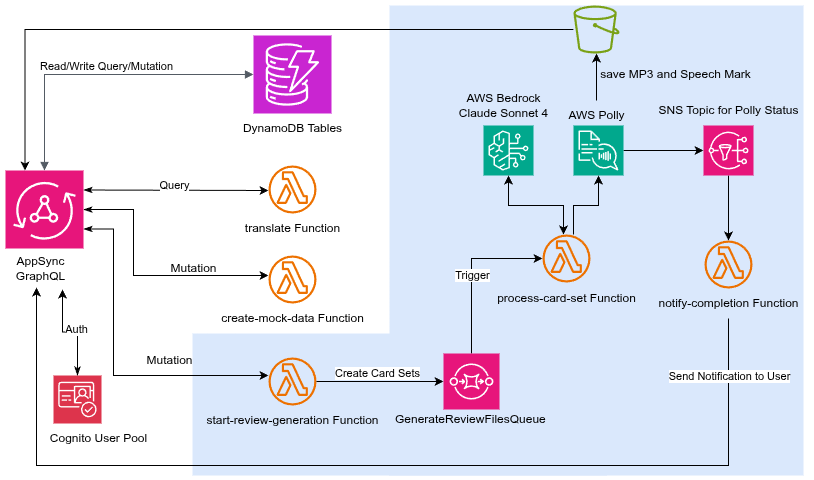
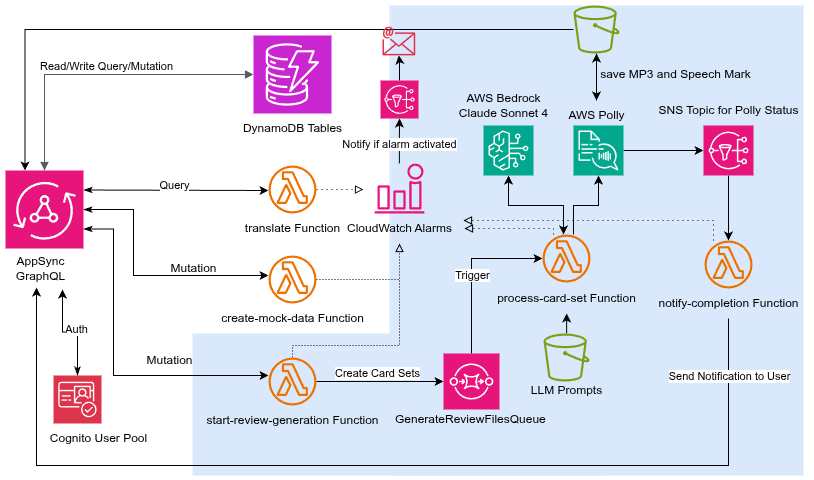
updated Readme.md

diff --git a/README.md b/README.md
@@ -6,7 +6,7 @@ This repository contains the full-stack source code for the MemorAI application,
 
 ### **Demos**
 
-- **MemorAI Introduction (3-min overview):** [Watch on YouTube](https://youtu.be/q6rDukNIyGo)
+- **MemorAI Introduction (3-min overview):** [Watch on YouTube](https://www.youtube.com/watch?v=4CYabcWYygk)
 - **UI Tutorial & Feature Walkthrough:** [Watch on YouTube](https://youtu.be/c9-9NZydUnQ)
 
 ## **The Role of AWS Lambda**
@@ -15,6 +15,10 @@ AWS Lambda is the serverless compute engine at the heart of this project, acting
 
 1. **Asynchronous Audio Generation:** A chain of Lambda functions orchestrates the complex, long-running task of generating audio reviews. This event-driven workflow ensures the user interface remains fast and responsive while the heavy lifting happens reliably in the background.
 2. **Custom API Logic:** Lambda also powers simple, direct API queries. For example, the `translate` function in our GraphQL API is a Lambda that takes text, calls Amazon Bedrock to get a translation, and returns the result directly to the user.
+
+### **Monitoring & Error Handling**
+
+We send all Lambda logs to CloudWatch and create one CloudWatch alarm for each Lambda function to track the number of errors in 5-minute windows. If the number of errors exceeds 1, we send a notification email to ensure rapid response to any issues.
 
 ## **Tech Stack & Architecture**
 
@@ -48,6 +52,10 @@ The diagram below illustrates the event-driven architecture that powers MemorAI'
 6. The SNS topic triggers the `notify-completion` Lambda.
 7. This final function updates the database record with the S3 file paths and a 'ready' status, and creates a notification that is instantly delivered to the user via the AppSync GraphQL subscription.
 
+## **Prompts**
+
+You can find all AI prompts used in this application in the `prompts` directory in the root of this repository.
+
 ## **Deployment**
 
 This application is designed to be deployed to **AWS Amplify Hosting**, which provides a git-based CI/CD workflow.
@@ -71,9 +79,3 @@ This application is designed to be deployed to **AWS Amplify Hosting**, which pr
 4. **Trigger a build.** Go to your app in the Amplify Console and click **Redeploy this version** to start a new build that includes the secret environment variable.
 
 Your application will now be live and accessible at the URL provided by Amplify Hosting.
-
-## **Important Notes on Private Assets**
-
-Please be aware that some assets used in this project are proprietary and are not included in this public repository.
-
-- **Generative AI Prompts:** The specific prompts used to instruct the Claude model on Amazon Bedrock are private. They are stored in an S3 bucket at `s3://memorai-secret-files/` in the files `prompt-story.md` and `prompt-ssml.md`. The backend Lambda functions are configured to access these files, but they are not available here. To run this project yourself, you will need to create your own prompts and modify the Lambda functions to access them from your own secure location.
